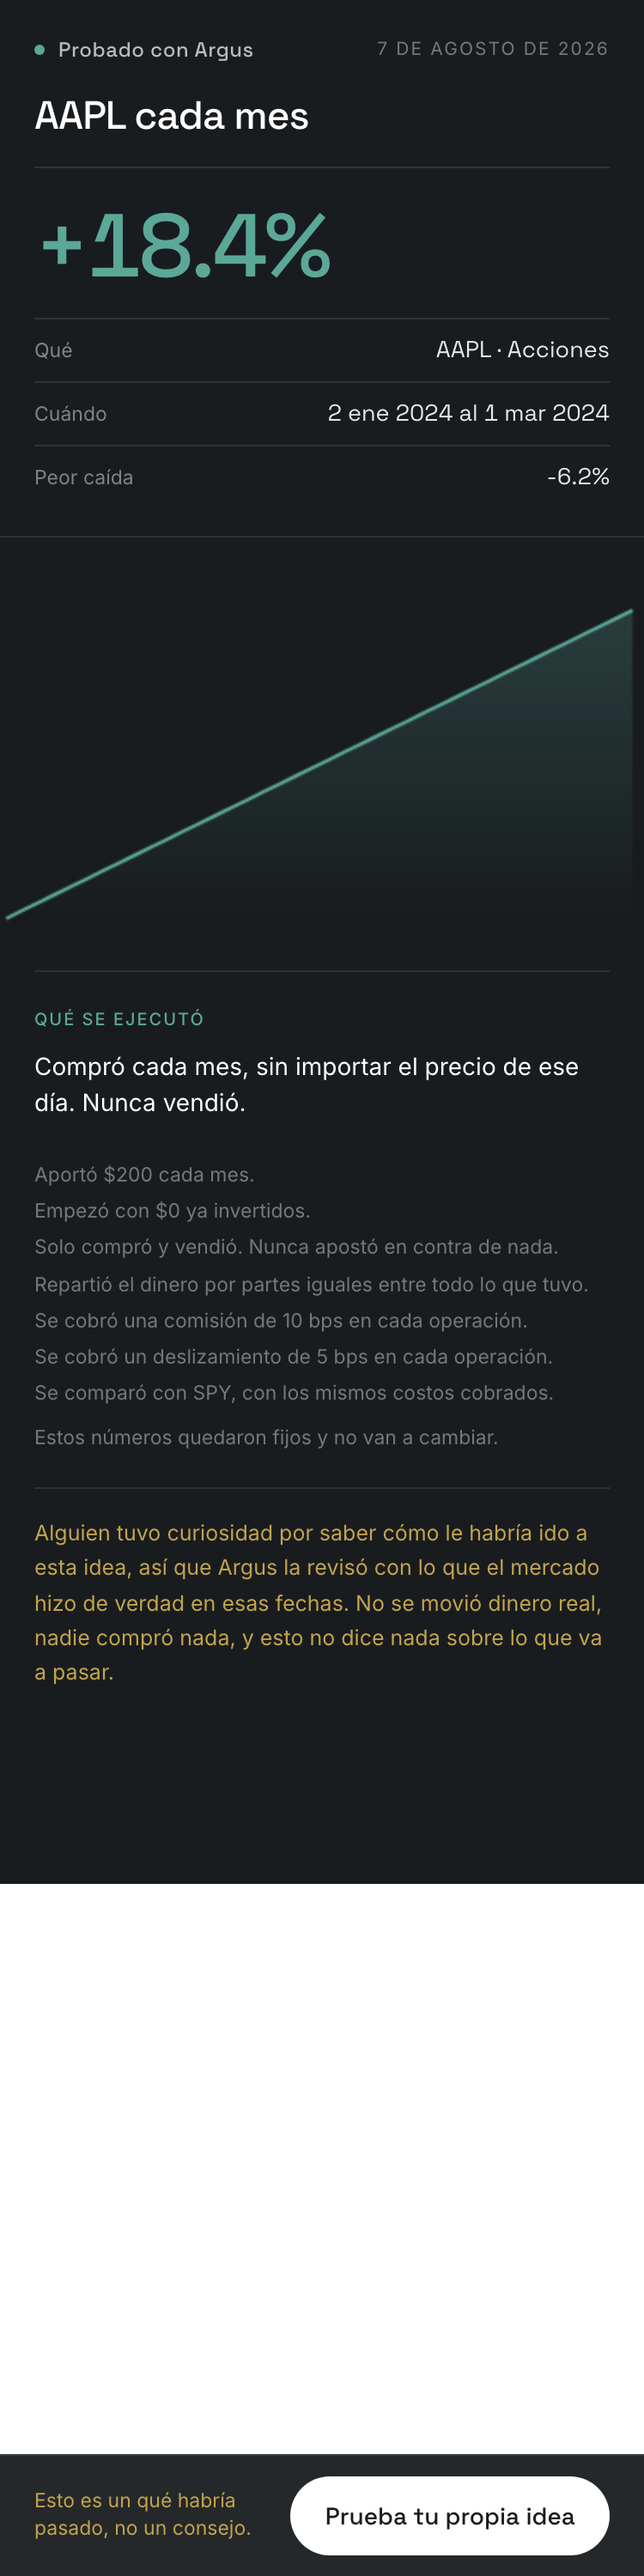
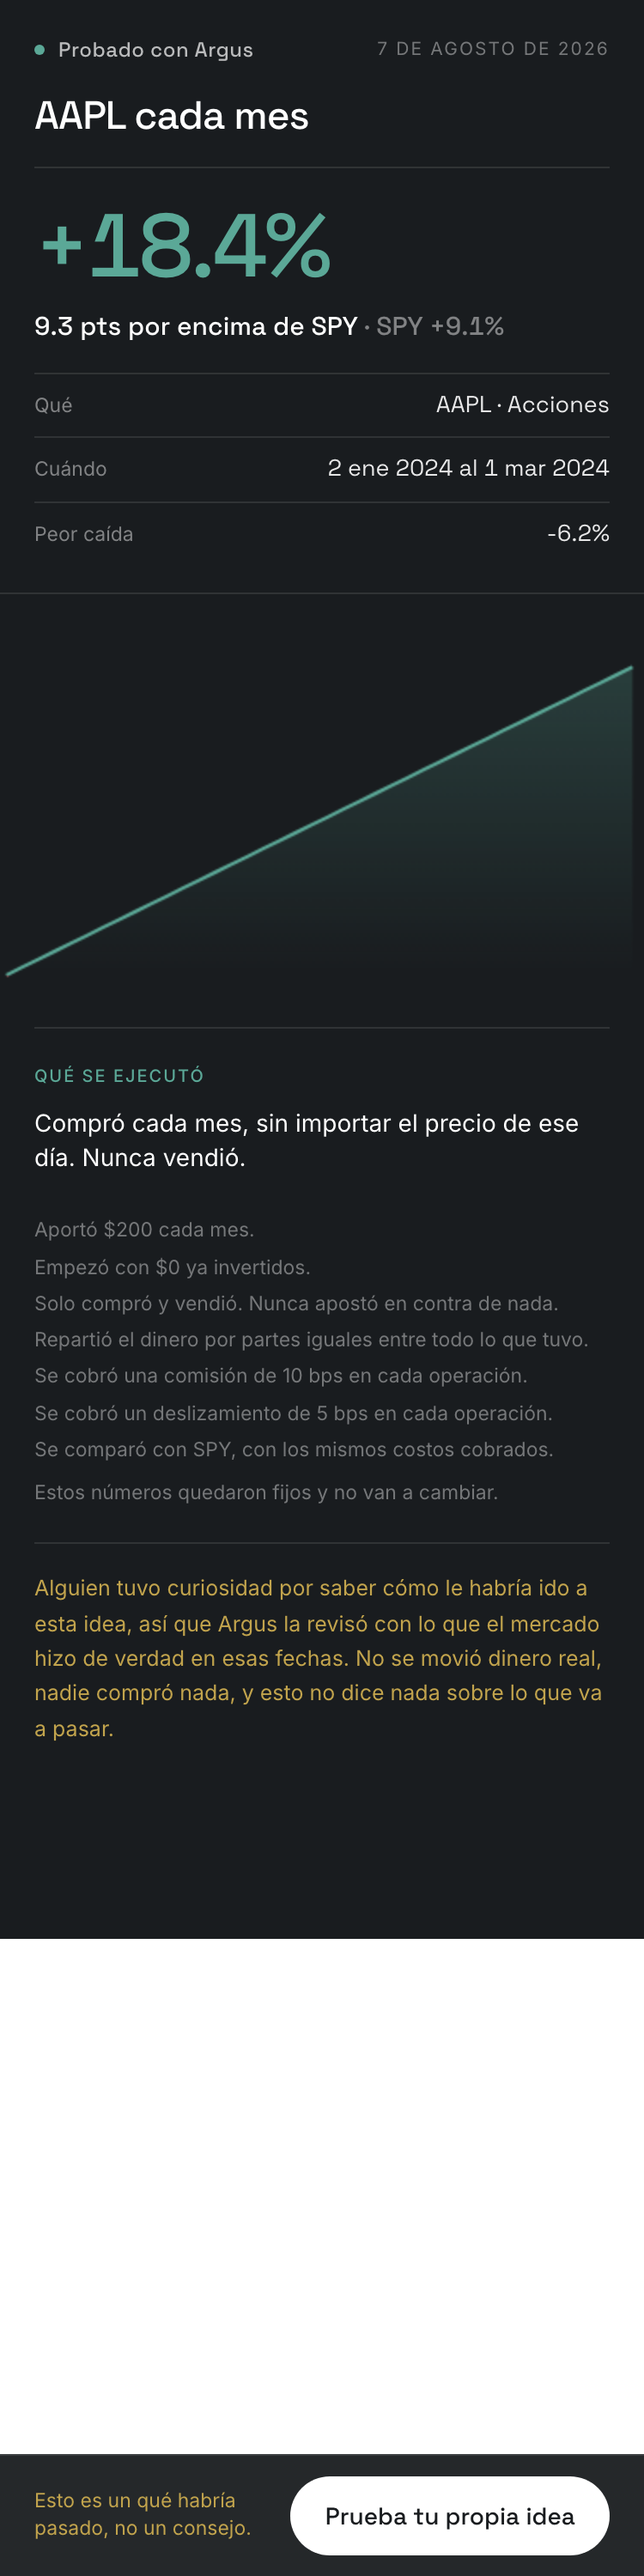
test(receipts): re-capture both language frames at the review head
Every commit expires the previous behavioral evidence, and the payload shape
changed, so the frames are taken again at this head. They now show the benchmark
comparison the earlier capture was silently missing: "9.3 pts ahead of SPY · SPY
+9.1%" and "9.3 pts por encima de SPY · SPY +9.1%", composed in each reader's
language from the same two frozen numbers.

The seed fixture carried a delta with no benchmark return, which the engine never
produces. Fixed, so the captured page reflects a run that can exist.

Text read and checked before either image was trusted, as before.

diff --git a/tests/public_excerpt_factories.py b/tests/public_excerpt_factories.py
@@ -405,6 +405,9 @@ GENERATED_CARD_METRICS: dict[str, Any] = {
         "performance": {
             "profit": 120.0,
             "total_return_pct": 18.4,
+            # The engine computes both halves of the comparison, so a fixture with
+            # only the delta describes a run it does not produce.
+            "benchmark_return_pct": 9.1,
             "delta_vs_benchmark_pct": 9.3,
             "execution_realism": {
                 "enabled": True,

diff --git a/docs/reports/evidence/417-receipt-language/README.md b/docs/reports/evidence/417-receipt-language/README.md
@@ -29,6 +29,13 @@ tested window read `2 de enero de 2024 al 1 de marzo de 2024`.
 None of that prose is in the payload. What the snapshot actually holds is:
 
 ```json
+"metrics": [
+  {"key": "cash_value", "value": "$600 -> $720"},
+  {"key": "total_return_pct", "value": "+18.4%"},
+  {"key": "max_drawdown_pct", "value": "-6.2%"},
+  {"key": "benchmark_return_pct", "value": "+9.1%"},
+  {"key": "delta_vs_benchmark_pct", "value": "9.3"}
+],
 "assumptions": [
   {"key": "recurring_contribution", "value": "200"},
   {"key": "contribution_cadence", "value": "monthly"},
@@ -46,6 +53,12 @@ So the English reader gets `It put in $200 every month.` and
 `Jan 2, 2024 to Mar 1, 2024`, and the Spanish reader gets `Aportó $200 cada mes.`
 and `2 ene 2024 al 1 mar 2024`, from one frozen object that contains neither
 sentence.
+
+The comparison line under the headline reads `9.3 pts ahead of SPY · SPY +9.1%`
+and `9.3 pts por encima de SPY · SPY +9.1%` from the same two numbers. The card
+this run produced states that comparison as `Beat by 9.3 percentage points`, in
+English in both languages, so the receipt carries the figures instead and composes
+the sentence for whoever opened the link.
 
 `rendered-text.json` holds the full rendered body text of both pages. Every frame
 here was checked by reading that text before the image was trusted: an earlier
